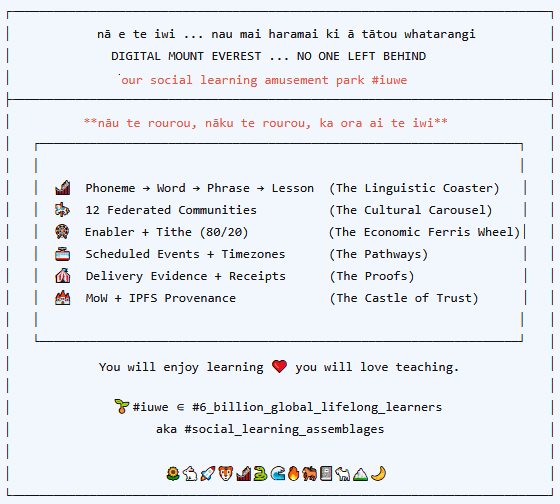
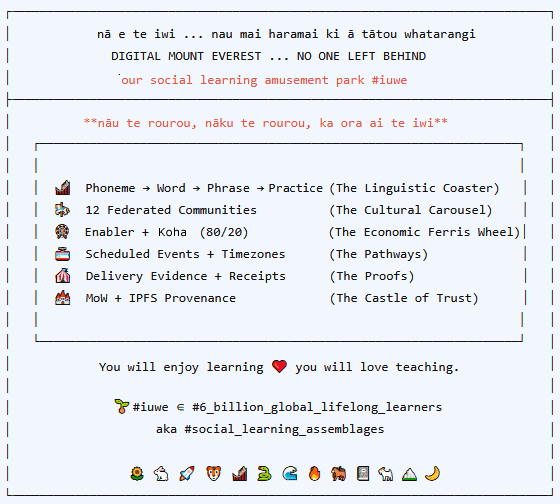
docs(i-puawai): publish faculty and Papawai references
Publish the approved provisional faculty-space and Papawai reference foundation alongside the 25-domain register.

Record the eight faculty spaces, the Papawai root with Phonemes, Oracy, Literacy, and Numeracy child references, and the explicit distinction between source, attribution, provisional sign-off, and continuing governance review. Correct the public glossary terminology from Phonetics to Phonemes and identify reusable 144-character learning statements as a designed-next schema-v6 layer.

Replace the public Whatarangi cover asset and add the supplied faculty-spaces/Papawai reference board, preserving both approved image bytes. Clarify that no faculty/domain or foundation/domain crosswalk, learning statement, word sense, asset relationship, visual eligibility, translation, curriculum sequence, or carousel decision is approved by this publication.

This is a public Living Book documentation-and-asset commit only; the GitHub push remains a separate explicit approval.

Changed region(s): [[0.2125, 0.9226, 0.7893, 0.9524], [0.4857, 0.3571, 0.5768, 0.3869], [0.2732, 0.4464, 0.3339, 0.4762]]

diff --git a/08-our-i-puawai/ipuawai-rebaseline-language-provenance-and-road-ahead.md b/08-our-i-puawai/ipuawai-rebaseline-language-provenance-and-road-ahead.md
@@ -1,12 +1,12 @@
 # Ī-puāwai rebaseline: language, provenance, and the road ahead
 
-**Status: a private clean foundation is operational; public source evidence is published; semantic, visual, and multilingual relationships remain deliberately governed work.**
+**Status: a private clean schema-v5 foundation is operational; public source and reference evidence is published; semantic, visual, multilingual, and crosswalk relationships remain deliberately governed work.**
 
 Ī-puāwai is becoming a community-held language-and-provenance database. This document records where the work has recently been, what is now reliable, and the challenges that must be faced before the system can honestly present words, senses, images, translations, voice, and practice as connected learning relationships.
 
 It is not a claim that the language bank is finished. It is a shared account of a transition: from a fast, informative minimum viable product to a more durable foundation where evidence is preserved, decisions are attributable, relationships can be reviewed, and future change does not need to begin from scratch.
 
-> **A word form is not its meaning. A source occurrence is not curriculum authority. An available image is not an approved visual referent. A translation is not created by proximity. The relationships, their evidence, and the people authorised to review them are the living learning system.**
+> **A word form is not its meaning. A source occurrence is not curriculum authority. An available image is not an approved visual referent. A translation is not created by proximity. The relationships, their evidence, and the people authorised to review them are the healthy living social learning system.**
 
 ## Where we have recently been
 
@@ -34,12 +34,13 @@ This sequence is intentionally narrow. Before a database, parser, seed runner, o
 | Papawai interpretation | The repeated final `category,word` row in raw v1 received a separate header-skip interpretation. | Raw v1 and its original historical membership record remained intact. |
 | Curated successors | Papawai v2 added approved everyday transport coverage; v3 added an approved Health and Wellbeing boundary. | Decision ledgers, parent hashes, and earlier source snapshots remained visible. |
 | Application proof | A read-only clean-schema Word Bank was added locally and tested. | Legacy routes, source artifacts, and persistent databases were not repurposed or rewritten. |
+| Relationship reference foundation | Schema v5 introduced governed reference capacity. The 25 provisional sense domains, eight faculty spaces, and Papawai root with Phonemes, Oracy, Literacy, and Numeracy child layers were seeded through checksum-verified, repeat-safe ledgers. | No faculty/domain or foundation/domain crosswalk, learning statement, word sense, asset, visual, translation, phrase, curriculum sequence, or carousel decision was implied. |
 
 This is the practical change-control method now available to the community: a later improvement can be proposed, reviewed, attributed, tested, and recorded without making the past disappear.
 
 ## Where we are now
 
-The private clean development database is at **schema version 4**. It has a UUID and public-reference identity foundation, enforced SQLite foreign keys, three language records (`eng`, `mri`, `cmn`), and five community records. Māori dialect records are intentionally not fabricated: recognised dialect relationships require their own language-scoped community authority and are not represented as country-code substitutes.
+The private clean development database is at **schema version 5**. It has a UUID and public-reference identity foundation, enforced SQLite foreign keys, three language records (`eng`, `mri`, `cmn`), five community records, 25 provisional sense-domain identities with first review records, eight faculty-space reference identities, and a Papawai root with Phonemes, Oracy, Literacy, and Numeracy child reference identities. Māori dialect records are intentionally not fabricated: recognised dialect relationships require their own language-scoped community authority and are not represented as country-code substitutes.
 
 The present foundation contains a transparent 689-record phoneme seed and retained community associations. It also contains 1,909 canonical English word records, each with a stable UUID and `w-...` public reference. These canonical records resolve forms across five immutable source snapshots—Kākano 144, Dolch, raw Papawai v1, approved Papawai v2, and approved Papawai v3—while retaining 4,826 historical source memberships.
 
@@ -51,6 +52,9 @@ The present foundation contains a transparent 689-record phoneme seed and retain
 | Source snapshot | A byte-identifiable, attributable source artifact at a point in time. | A closed canon or an instruction to replace earlier evidence. |
 | Source membership | Evidence that a word occurred in a named source, category, and row context. | A duplicate word identity, a word sense, a translation, or a visual link. |
 | Public reference | A short, stable human-facing handle for a record. | A production filename, CRM identifier, or external-platform claim. |
+| Sense domain | A changeable organising territory with its first attributable provisional review record. | A dictionary meaning, word list, faculty assignment, foundation assignment, asset category, or carousel rule. |
+| Faculty space | An attributable broad social-learning reference identity. | A curriculum subject, domain crosswalk, word membership, or permanent cultural authority. |
+| Papawai foundation layer | An attributable Papawai umbrella or child reference identity. | A prescribed sequence, crosswalk, word membership, or learner statement. |
 
 The local read-only Word Bank now provides a small but important proof: canonical English words and retained source memberships can be displayed from the clean schema without using the legacy Word ORM or modifying the database. This is an application proof, not yet a public deployment claim.
 
@@ -117,9 +121,9 @@ The following constraints are active design commitments, not temporary inconveni
 
 | Status | Present scope |
 |---|---|
-| **Operational private foundation** | UUID/public references; foreign-key protection; clean schema version 4; language/community reference seed; phoneme seed; immutable word-source snapshots and memberships; Papawai interpretation and successor lineage; repeat-safe seed runners; local read-only Word Bank proof. |
+| **Operational private foundation** | UUID/public references; foreign-key protection; clean schema version 5; language/community reference seed; phoneme seed; immutable word-source snapshots and memberships; Papawai interpretation and successor lineage; 25 provisional sense domains with first reviews; eight attributable faculty spaces; Papawai root with Phonemes, Oracy, Literacy, and Numeracy child references; repeat-safe seed runners; local read-only Word Bank proof. |
 | **Under test** | Controlled word-sense catalogue; sense-to-visual relationships; governed carousel data path; asset registration and review workflow; bilingual relationship proofs. |
-| **Designed next** | Approved translations and learner statements; voice and TTS attribution; phrase patterns; production agreements; practice-event and delivery relationships. |
+| **Designed next** | Reviewed faculty/domain and foundation/domain crosswalks; reusable 144-character learning statements; approved translations; voice and TTS attribution; phrase patterns; production agreements; practice-event and delivery relationships. |
 | **Deferred by design** | Automatic Discourse linking, CRM dependency during seeding, billing/receipts, scheduled-event operations, image-led curriculum selection, and unreviewed Wairuatanga vocabulary proposals. |
 
 The source CSV artifacts remain immutable. The legacy `ipuawai.db` remains preserved evidence and is not a target for this rebaseline. The current `ipuawai_next.db` is a disposable, rebuildable clean development database; it is not itself published as an authoritative public artifact.
@@ -128,7 +132,7 @@ The source CSV artifacts remain immutable. The legacy `ipuawai.db` remains prese
 
 Ī-puāwai is relational rather than transactional. It provides a technical structure for reciprocity, correction, and continuity, but it does not replace the people who hold language, rights, pedagogical, and cultural authority.
 
-Community kaitiaki may review, correct, approve, defer, or decline relationships. A later decision creates an attributable successor or relationship record; it does not silently rewrite source evidence. The Living Book records enough context for a future whānau member, developer, researcher, or AI to distinguish source from interpretation, proposal from approval, historical evidence from current use, and technical capability from community authority.
+Community kaitiaki may review, correct, approve, defer, or decline relationships. A later decision creates an attributable successor or relationship record; it does not silently rewrite source evidence. The Living Book records enough context for a future whānau member, developer, researcher, or AI to distinguish source from attribution, sign-off from source, proposal from approval, historical evidence from current use, and technical capability from community authority.
 
 This is the practical value of the rebaseline: not that change becomes slow, but that change becomes **legible**. A community can make a narrow decision while the lived reason for it is still present, retain the evidence, and let future people understand how and why the system moved.
 

diff --git a/08-our-i-puawai/03-senses-and-concept-domains/provisional-sense-domain-register.md b/08-our-i-puawai/03-senses-and-concept-domains/provisional-sense-domain-register.md
@@ -1,22 +1,22 @@
 # Ī-puāwai provisional sense-domain register
 
-**Status: approved provisional single sign-off; community editorial review remains to be enabled.**
+**Status: approved provisional 25-domain register; attributable faculty-space and Papawai reference identities published; community editorial review remains to be enabled.**
 
 This register records the current 25 **sense domains** for Ī-puāwai. They are changeable organising territories for future reviewed learning relationships. They are **not** dictionary entries, a closed curriculum, source-list membership, a translation table, an image taxonomy, a carousel specification, or an approval of any individual word, phrase, asset, or visual relationship.
 
-The current provisional sign-off authority is **Paul Ransfield, Kapai Group**, until community editorial teams are enabled. This is a transparent temporary governance arrangement, not a substitute for the language, cultural, pedagogical, rights, and kaitiaki review required by later relationship decisions.
+The **source** of the current sense-domain register is **AI++ co-design: Manus and Paul Ransfield**; its public **attribution** is **Manus and Paul Ransfield**. The present provisional sign-off authority is **Paul Ransfield** until community editorial teams are enabled. These are distinct records: sign-off does not replace source, and attribution does not confer permanent authority. Community editorial, language, cultural, pedagogical, rights, and kaitiaki review remain necessary for later relationship decisions.
 
 > A canonical word is not its only meaning. A word sense is not a sense domain. An available image is not a curriculum decision. The relationships, their evidence, and the people authorised to review them remain the **healthy living social learning system**.
 
 ## What this register now establishes
 
-The private clean Ī-puāwai foundation can now retain a domain identity, its boundary, and its first attributable provisional review record. That creates a stable place for future review without pretending that the later relationships are already true. Its purpose is to support a **healthy living social learning system** in which change can remain attributable, reviewable, and reversible.
+The private clean Ī-puāwai foundation can now retain a domain identity, its boundary, and its first attributable provisional review record. It can also retain the eight faculty-space reference identities and the separate Papawai root with Phonemes, Oracy, Literacy, and Numeracy child references. That creates stable places for future review without pretending that the later relationships are already true. Its purpose is to support a **healthy living social learning system** in which change can remain attributable, reviewable, and reversible.
 
-The following work remains separate and unapproved by this register: faculty-to-domain and foundation-to-domain crosswalks; word senses; word-sense-to-domain memberships; translations; assets; visual eligibility; phrase patterns; voice; practice events; and carousel selection.
+The following work remains separate and unapproved by this register: faculty-to-domain and foundation-to-domain crosswalks; reusable learning statements; word senses; word-sense-to-domain memberships; translations; assets; visual eligibility; phrase patterns; voice; practice events; and carousel selection.
 
 ## The eight faculty spaces
 
-The following eight **faculty spaces** are a separate reference dimension for the healthy living social learning system. They are listed here so the public architecture is legible. This register does **not** assign any sense domain to a faculty space; those crosswalks require their own later review.
+The following eight **faculty spaces** are a separate reference dimension for the healthy living social learning system. Their source and attribution are **Paul Ransfield, Kapai Group**; their present provisional sign-off is **Paul Ransfield**; and `haporiCRM_ID` remains transparently **to be supplied**. They are listed here so the public architecture is legible. This register does **not** assign any sense domain to a faculty space; those crosswalks require their own later review.
 
 | Faculty space | Public working orientation |
 |---|---|
@@ -30,6 +30,20 @@ The following eight **faculty spaces** are a separate reference dimension for th
 | **Ngātāhitanga** | Intersections, connections, and participation across people, places, learning contexts, and systems. |
 
 These short English descriptions are public working orientations, not substitutes for community-held meanings or language authority. They exist to explain the architecture while the appropriate community and kaitiaki review pathways continue to develop.
+
+## Papawai foundation references
+
+**Papawai** is a separate foundation-layer umbrella, not a faculty space or sense domain. Its current reference structure has the same source, attribution, provisional sign-off, and transparent `haporiCRM_ID` boundary as the faculty-space reference ledger: **Paul Ransfield, Kapai Group**; **Paul Ransfield**; and **to be supplied**.
+
+```text
+Papawai
+├── Phonemes
+├── Oracy
+├── Literacy
+└── Numeracy
+```
+
+These are stable reference identities only. They do not prescribe a pedagogical sequence, assign a sense domain, approve a word membership, or establish a relationship to an asset, visual, learning statement, translation, or carousel.
 
 ## The 25 provisional organising territories
 
@@ -89,10 +103,11 @@ The register also does not allow visual availability to decide curriculum member
 | **Auahatanga** | The faculty-space name used for creative practice, imagination, expression, and making new possibilities. |
 | **Taiao** | The faculty-space name used for the natural world, environments, places, and ecological relationships. |
 | **Ngātāhitanga** | The faculty-space name used for intersections, connections, and participation across people, places, learning contexts, and systems. |
-| **Papawai** | The separate foundation-layer umbrella beneath which later phonetics, oracy, literacy, and numeracy reference layers may sit. Papawai is not a faculty space and does not itself assign a sense domain or a word to a learning sequence. |
+| **Papawai** | The separate foundation-layer umbrella with **Phonemes**, Oracy, Literacy, and Numeracy child reference identities. Papawai is not a faculty space and does not itself assign a sense domain or a word to a learning sequence. |
 | **Canonical word** | The stable, normalised underlying word-form identity used to retain source occurrences without treating any one source row, spelling context, translation, image, or meaning as the whole record. A canonical word is not yet a word sense. |
 | **Sense domain** | A changeable organising territory for reviewed learning relationships. It is not a dictionary definition, a source category, a word sense, an asset category, or curriculum authority. |
 | **Word sense** | A future Ī-puāwai project-local relational identity for a specific intended meaning and learning use of a canonical word in a language. It is richer than a dictionary gloss and remains separate from a sense domain. |
+| **Learning statement** | A designed-next reusable learner-facing expression, expected to be limited to 144 characters and separately reviewed when attached to a sense domain, faculty space, or language-specific word sense. It is not yet an operational record. |
 
 ## Reading alongside the wider Living Book
 

diff --git a/08-our-i-puawai/03-senses-and-concept-domains/README.md b/08-our-i-puawai/03-senses-and-concept-domains/README.md
@@ -1,10 +1,10 @@
 # 03 — senses and concept domains
 
-**Status: approved provisional 25-domain register published; controlled word-sense catalogue and relationship work remain under review.**
+**Status: approved provisional 25-domain register, faculty-space references, and Papawai foundation references published; controlled word-sense catalogue, crosswalk, and relationship work remain under review.**
 
 A word is not enough to identify a learning object. `bat` may refer to a flying animal, a cricket implement, or a baseball implement. Ī-puāwai therefore separates a canonical word from its language-specific word senses, and only later connects a reviewed sense to appropriate learner statements, translations, visual or audio assets, and learning uses.
 
-The public [provisional sense-domain register](provisional-sense-domain-register.md) records 25 changeable organising territories and the eight named faculty spaces as separate reference dimensions for a **healthy living social learning system**. The register makes no individual word, translation, image, or carousel claim. Faculty-to-domain and foundation-to-domain crosswalks remain later reviewed relationship work.
+The public [provisional sense-domain register](provisional-sense-domain-register.md) records 25 changeable organising territories, eight named faculty spaces, and the separate Papawai foundation structure—**Phonemes, Oracy, Literacy, and Numeracy**—as reference dimensions for a **healthy living social learning system**. The register makes no individual word, translation, image, curriculum sequence, or carousel claim. Faculty-to-domain and foundation-to-domain crosswalks remain later reviewed relationship work, as do the designed-next reusable learning-statement records.
 
 The operating hierarchy is:
 
@@ -13,7 +13,11 @@ faculty space → sense domain → referent concept → language-specific word s
     → learner statement → reviewed visual/audio asset → practice event
 ```
 
-Faculty spaces remain broad social-learning contexts. Sense domains provide the practical middle layer for organising review. A source category records historical evidence; a sense domain organises a reviewable territory; a referent concept holds intended meaning; and a word sense gives that meaning a language-specific learning identity.
+Faculty spaces remain broad social-learning contexts. Sense domains provide the practical middle layer for organising review. Papawai and its child layers are separate language-and-learning reference dimensions. A source category records historical evidence; a sense domain organises a reviewable territory; a referent concept holds intended meaning; and a word sense gives that meaning a language-specific learning identity.
+
+![Our faculty spaces and Papawai reference board](../../images/our-faculty-spaces.png)
+
+> **Illustrated working reference only.** The board makes the faculty and Papawai structure easier to read; it does not approve a faculty/domain crosswalk, a foundation/domain crosswalk, word membership, an image relationship, or a learning statement.
 
 ## Quality rule
 
